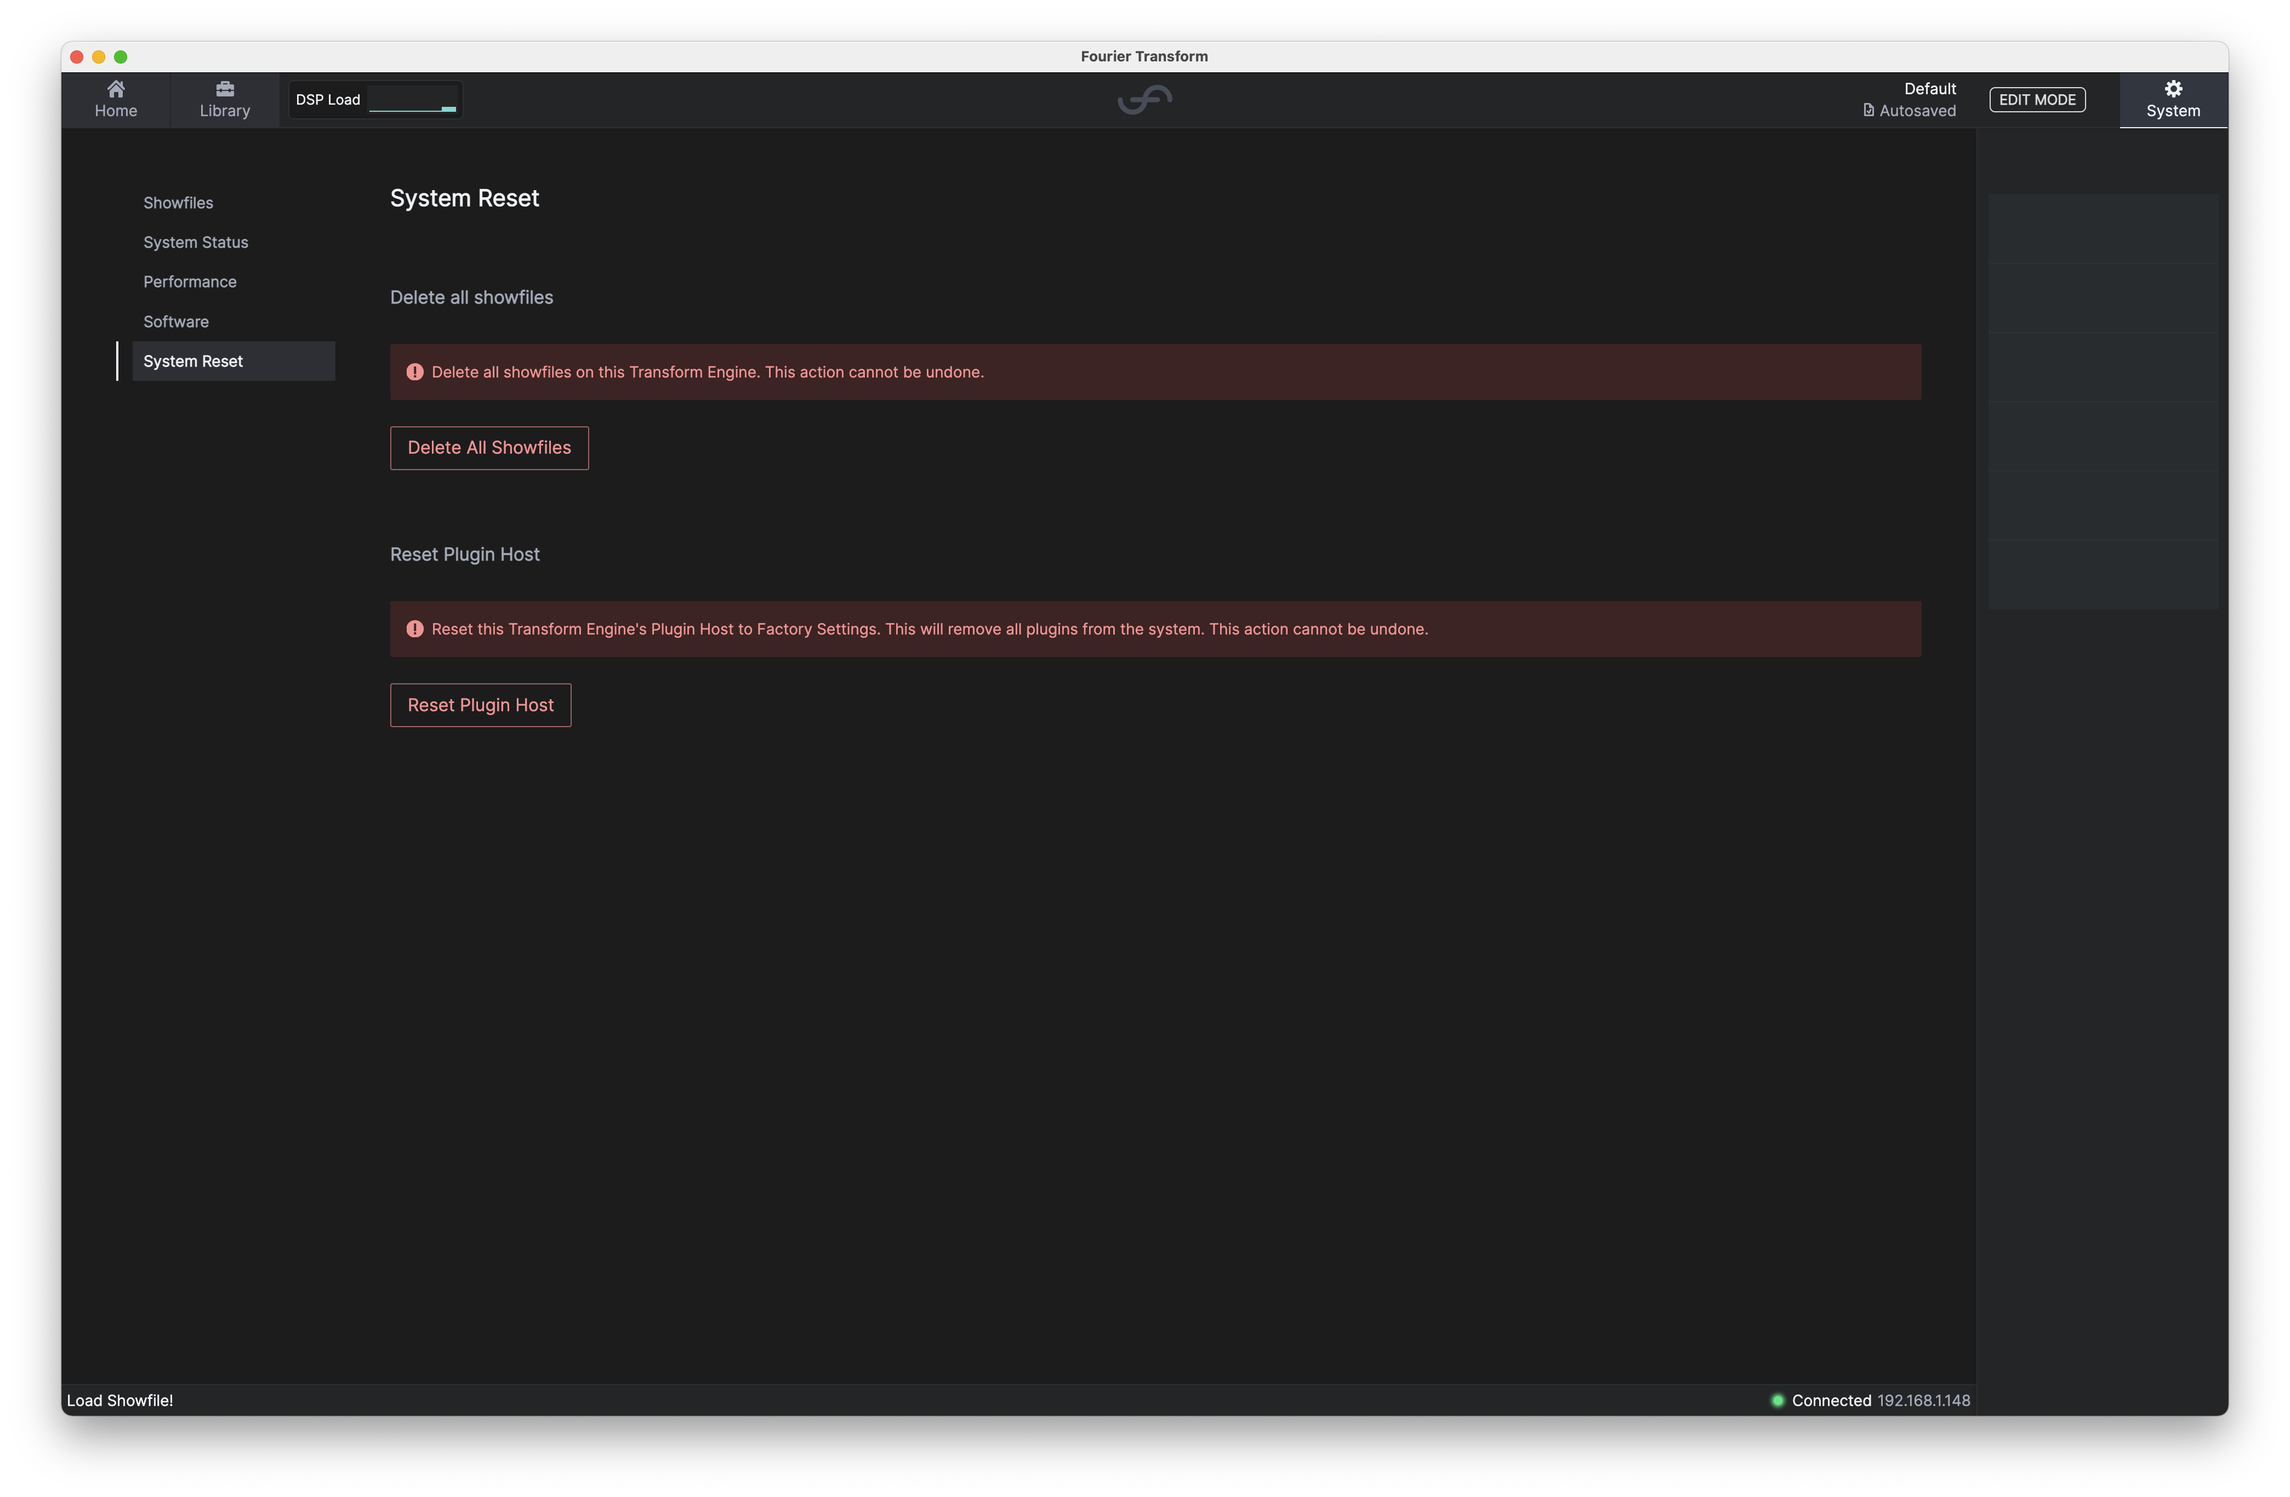
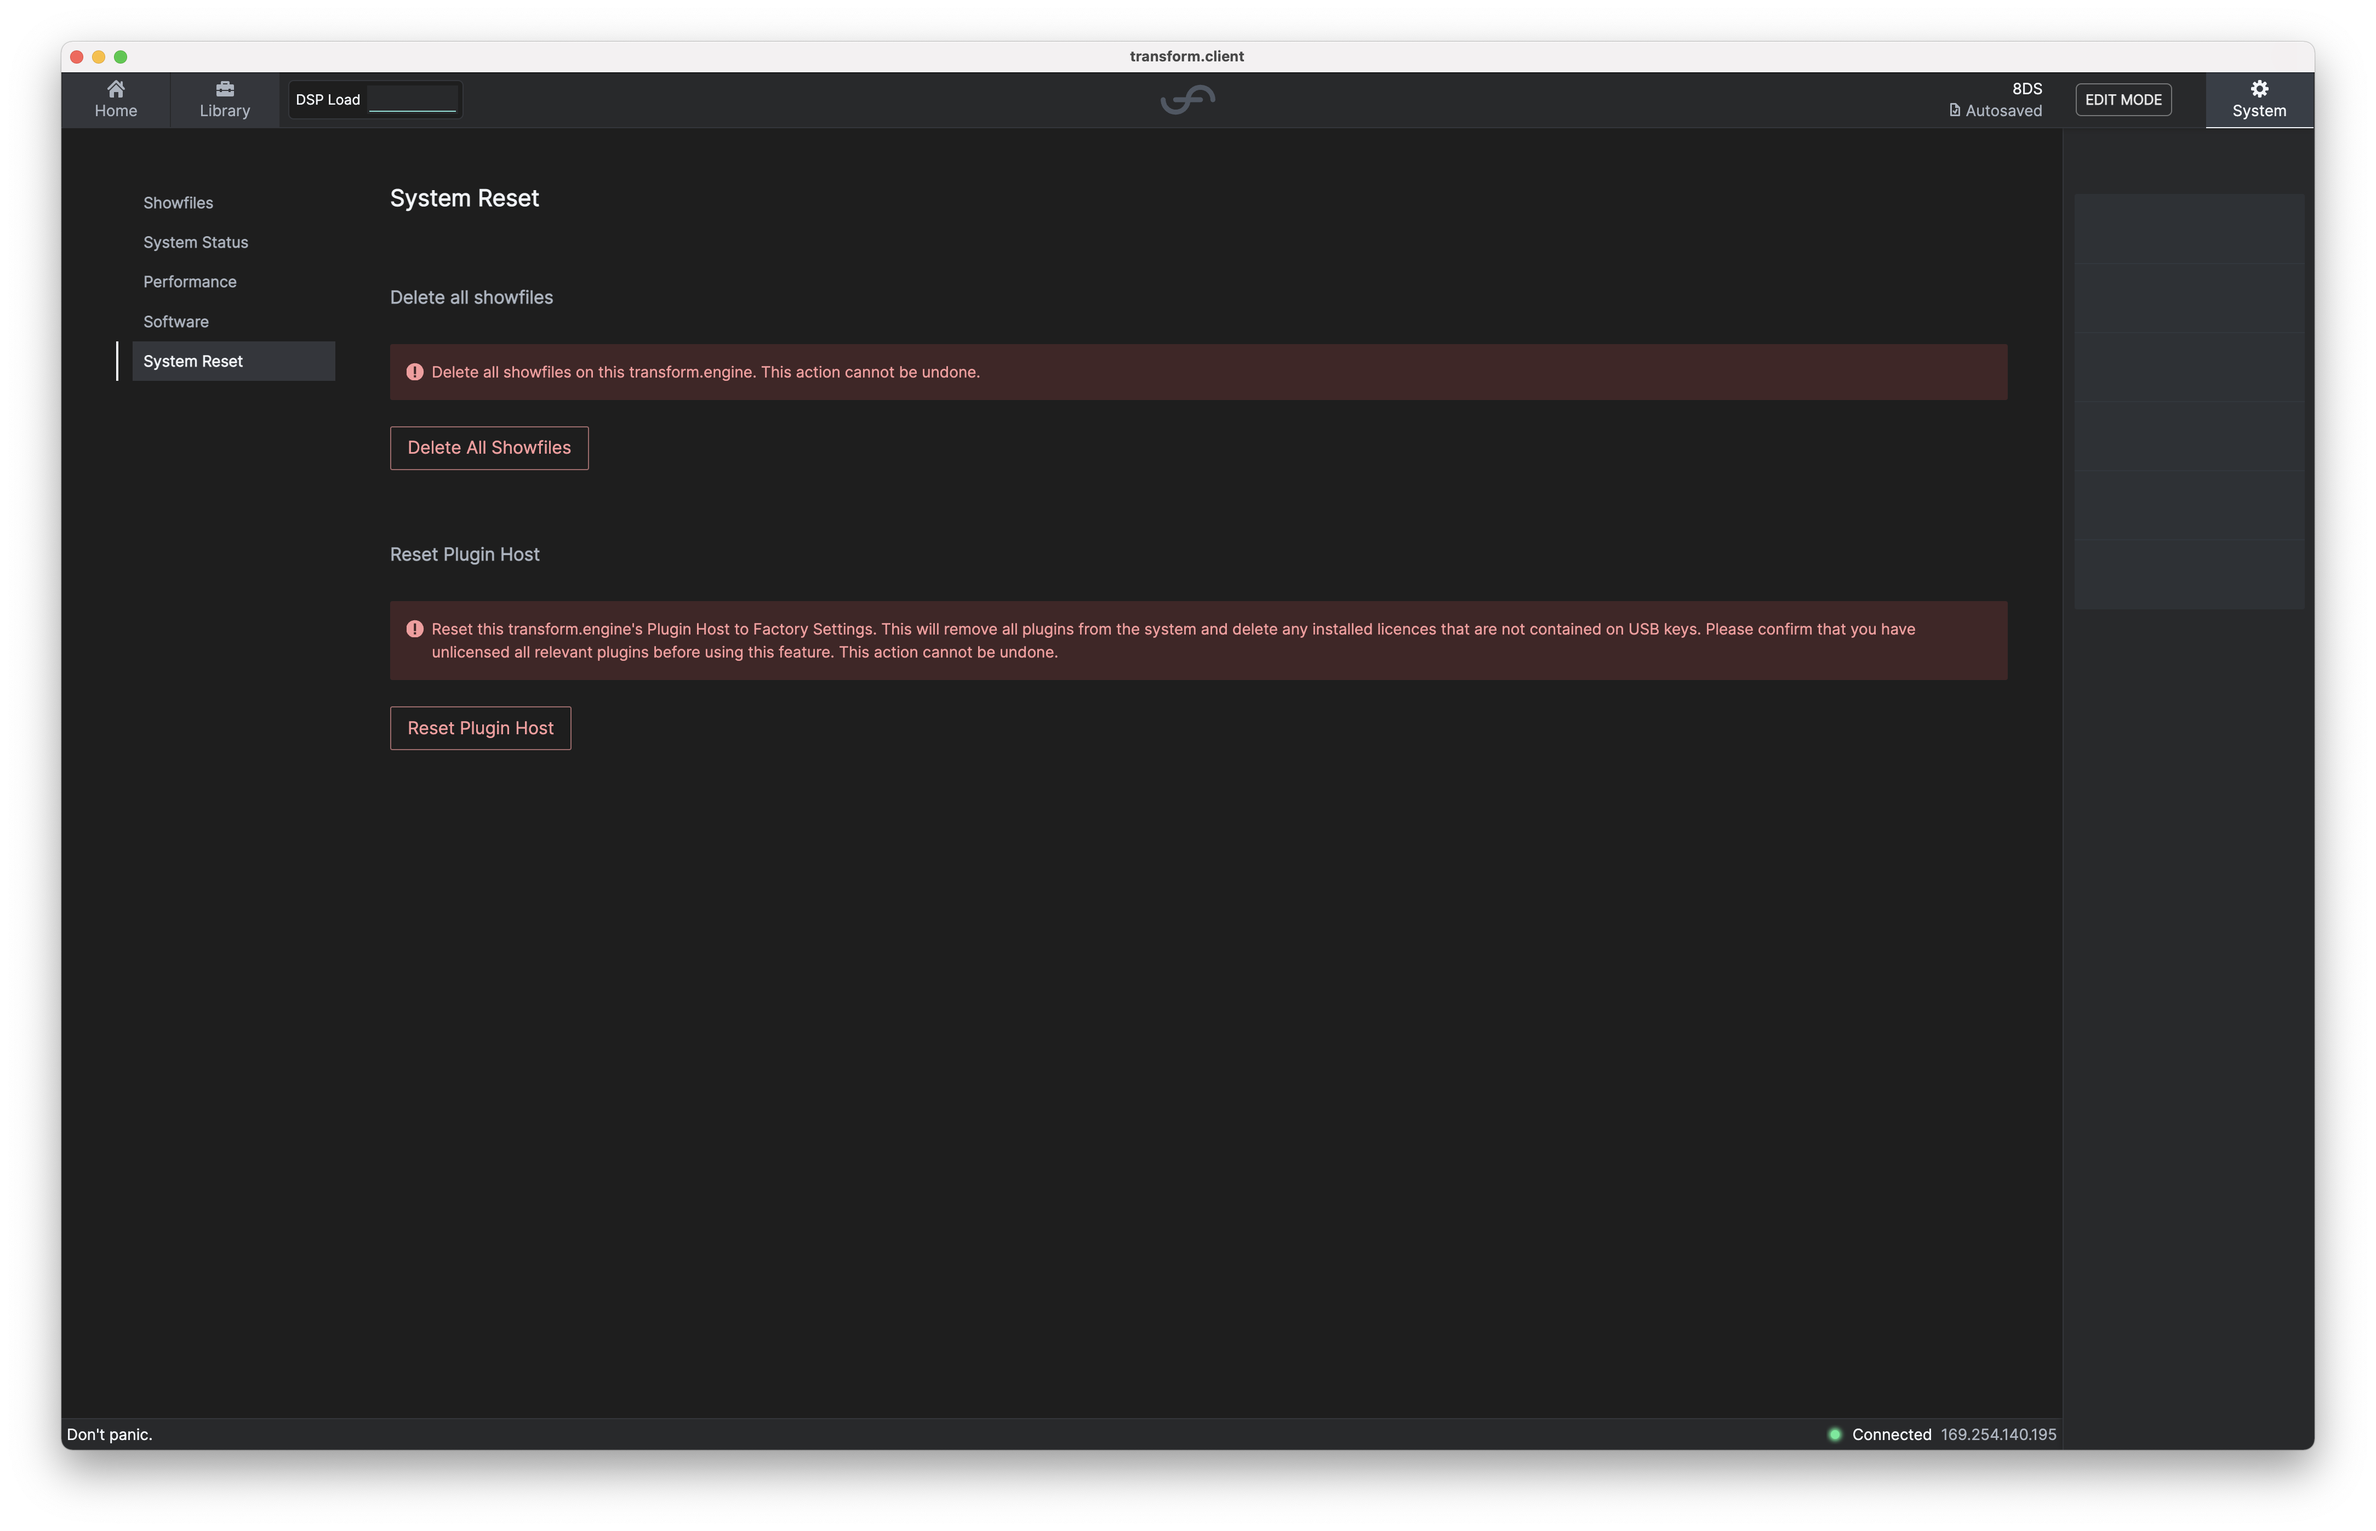
Update images as per todo

diff --git a/manual/transform.client/system/performance.md b/manual/transform.client/system/performance.md
@@ -6,8 +6,6 @@ sidebar_position: 3
 
 If you navigate to the **Performance** tab you will find the current performance metrics for your **transform**.engine.
 
-TODO: Update this image
-
 ![System status overview tab.](@site/static/img/transformclient/system-performance.png)
 
 The chart shown (plus a smaller one in the top left) shows the load per DSP core.

diff --git a/manual/transform.client/system/system-status.md b/manual/transform.client/system/system-status.md
@@ -8,8 +8,6 @@ Clicking on **System Status**, will give you useful under-the-hood information, 
 
 ![System status overview tab.](@site/static/img/transformclient/system-status.png)
 
-TODO: Update screenshot
-
 ### System Mode
 
 - **Edit Mode**- Audio is running through the audio engine.

diff --git a/manual/transform.client/system/reset.md b/manual/transform.client/system/reset.md
@@ -29,6 +29,4 @@ This one is for special occasions only. Say you've just received a transform.eng
 
 :::
 
-TODO: Update this screenshot
-
 ![System reset tab.](@site/static/img/transformclient/system-reset.png)
